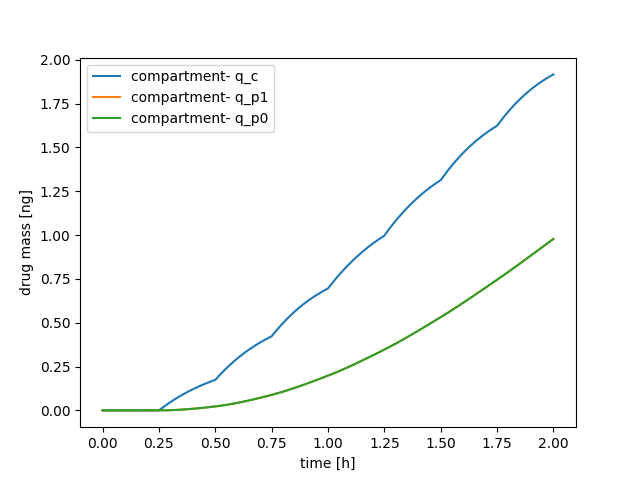
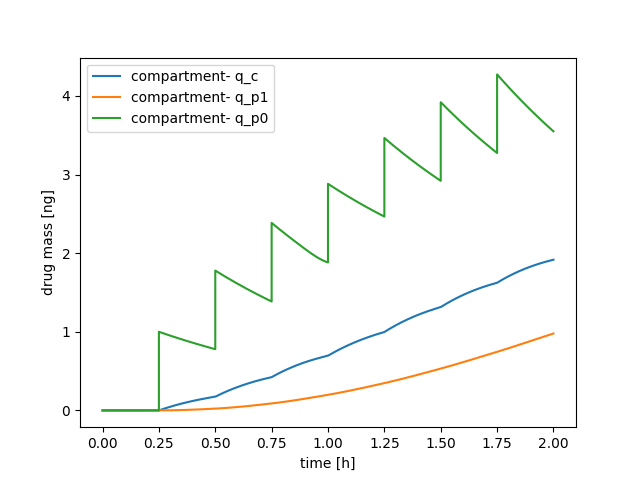
plot corrected

diff --git a/pkmodel/solution.py b/pkmodel/solution.py
@@ -28,7 +28,7 @@ class Solution:
         elif (self.type_dosing == "subcutaneous"):
             plt.plot(self.t_sol, self.y_sol[0, :], label = 'compartment' + '- q_c')
             plt.plot(self.t_sol, self.y_sol[1, :], label = 'compartment' + '- q_p1')
-            plt.plot(self.t_sol, self.y_sol[1, :], label = 'compartment' + '- q_p0')
+            plt.plot(self.t_sol, self.y_sol[2, :], label = 'compartment' + '- q_p0')
         else:
             raise Exception('type_dosing must be either "intravenous" or "subcutaneous"')
         plt.legend()
